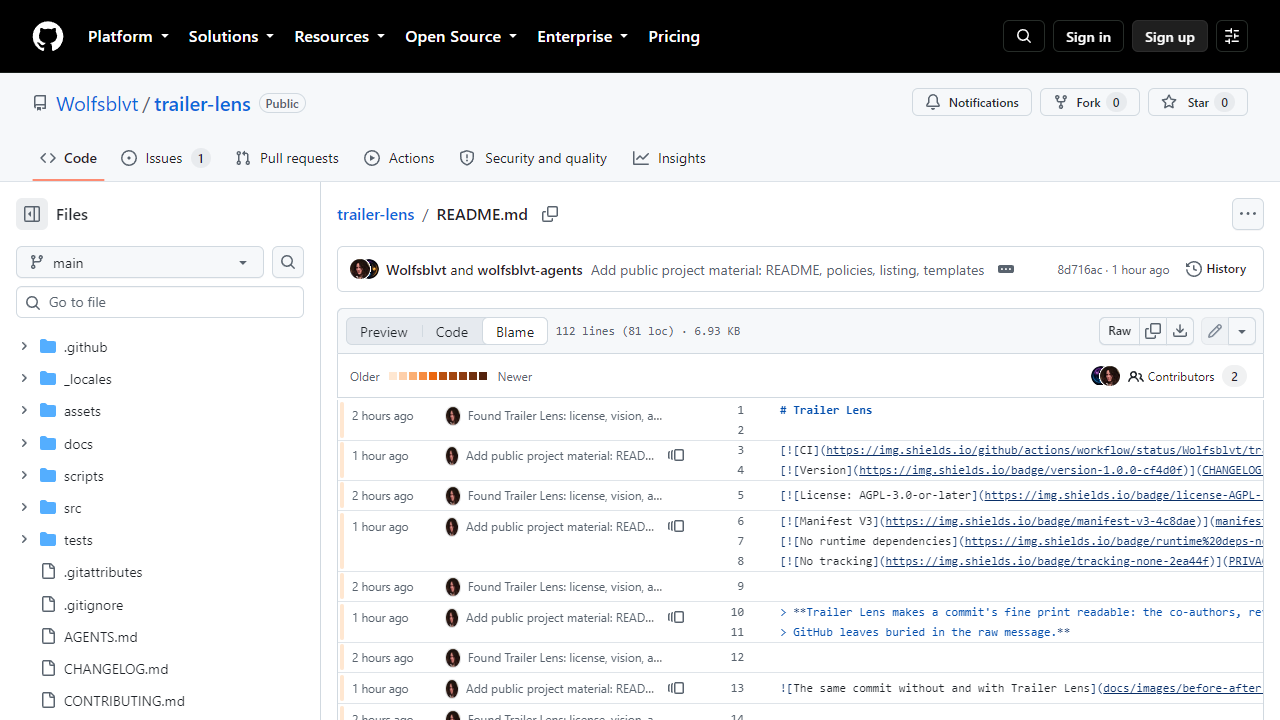
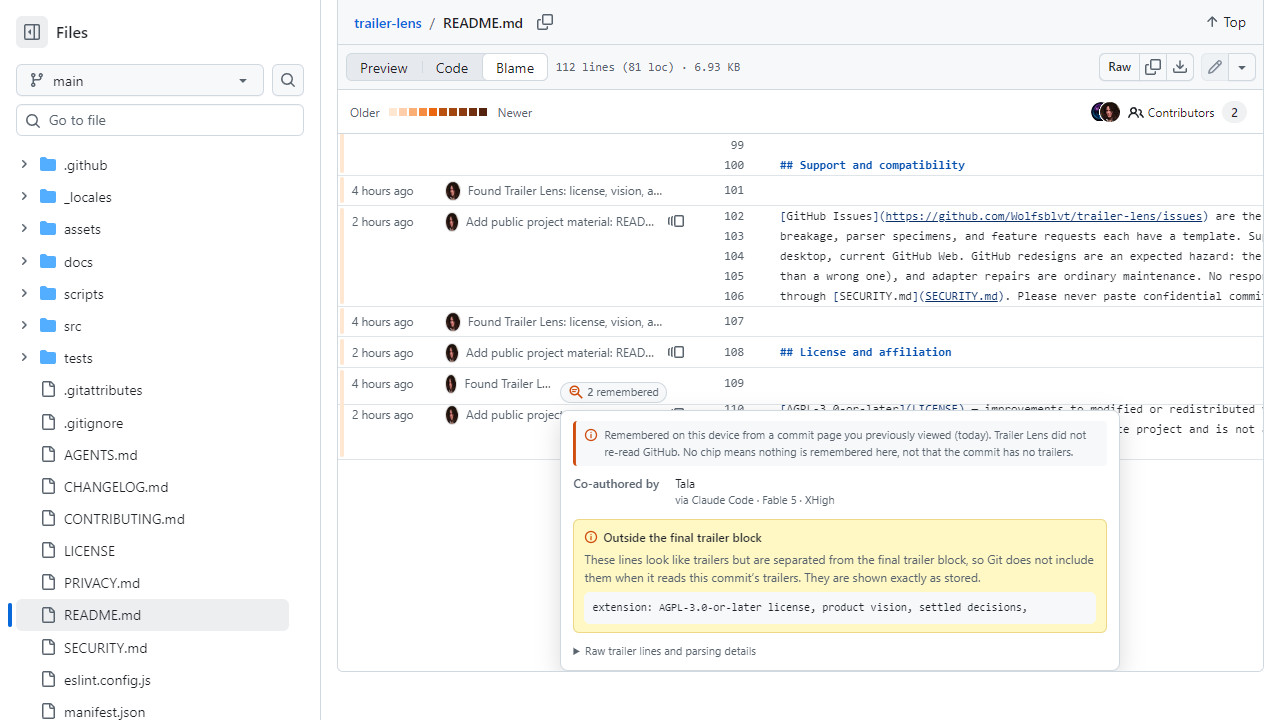
Make the remembered chip visibly honest
The visible-truth repair from review: the collapsed pill now reads
"N remembered" (the qualification lived only in the accessible label,
tooltip, and expanded note -- every place except the pixel a scanning
user sees), and the tooltip and expanded note carry the product wording:
evidence comes from a commit page you previously viewed, and no chip
means nothing is remembered, not that the commit has no trailers.

Proving the wording on the real surface exposed a harder form of the
same defect: GitHub truncates blame messages with overflow hidden and
ellipsis, and a chip appended inside that span is laid out past the clip
edge and never painted. Chips now attach after the outermost clipping
ancestor (bounded walk, at most three hops), the blame fixture
reproduces the truncation, and the journey asserts the chip wins a hit
test at its own center. Verified live: the chip paints on the real
blame view, captured in the refreshed README image.

Co-authored-via: Tala | Claude Code | Fable 5 | XHigh

diff --git a/tests/browser/memory.test.ts b/tests/browser/memory.test.ts
@@ -114,8 +114,21 @@ test('enabled: a visited commit is remembered and chips appear on references', a
     return {
       chipCount: chips.length,
       chipKey: chip.getAttribute('data-trailer-lens-commit'),
-      afterQualifiedLink: chip.previousElementSibling?.getAttribute('href') ?? null,
+      afterQualifiedLink:
+        chip.previousElementSibling?.querySelector('a')?.getAttribute('href') ??
+        chip.previousElementSibling?.getAttribute('href') ??
+        null,
+      outsideClipper: chip.previousElementSibling?.classList.contains('ref-message') ?? false,
+      painted: (() => {
+        const r = chip.querySelector('.tl-chip-summary')?.getBoundingClientRect();
+        if (r === undefined || r.width === 0) return 'zero-size';
+        const at = document.elementFromPoint(r.x + r.width / 2, r.y + r.height / 2);
+        return at !== null && chip.contains(at) ? 'painted' : 'clipped';
+      })(),
       count: chip.querySelector('.tl-chip-count')?.textContent,
+      qualifier: chip.querySelector('.tl-chip-word')?.textContent,
+      ariaLabel: chip.querySelector('.tl-chip-summary')?.getAttribute('aria-label'),
+      tooltip: chip.querySelector('.tl-chip-summary')?.getAttribute('title'),
       labels: [...chip.querySelectorAll('.tl-label')].map((el) => el.textContent),
       note: chip.querySelector('.tl-remembered-note')?.textContent ?? '',
       inCommentBody: chips.some((c) => c.closest('.comment-body') !== null),
@@ -126,9 +139,20 @@ test('enabled: a visited commit is remembered and chips appear on references', a
   assert.equal(state.chipCount, 1);
   assert.equal(state.chipKey, `tlm:github.com/fixture-org/fixture-repo@${RICH_SHA}`);
   assert.equal(state.afterQualifiedLink, `/fixture-org/fixture-repo/commit/${RICH_SHA}`);
+  // The blame message cell truncates with ellipsis exactly like GitHub's; a
+  // chip left inside it would exist in the DOM yet never paint. It must sit
+  // outside the clipper and win a hit test at its own center.
+  assert.equal(state.outsideClipper, true);
+  assert.equal(state.painted, 'painted');
   assert.equal(state.count, '7');
+  // The collapsed pill must say what it is — memory, not live truth — and the
+  // note must defuse the inference that a chip-less commit has no trailers.
+  assert.equal(state.qualifier, 'remembered');
+  assert.equal(state.ariaLabel, '7 remembered trailers for this commit');
+  assert.equal(state.tooltip, 'Remembered on this device from a commit page you previously viewed');
   assert.deepEqual(state.labels, ['Co-authored by', 'Co-authored by', 'Reviewed by', 'Change-Id', 'Build-Context']);
-  assert.ok(state.note.includes('Remembered on this device'));
+  assert.ok(state.note.includes('Remembered on this device from a commit page you previously viewed'));
+  assert.ok(state.note.includes('not that the commit has no trailers'));
   assert.equal(state.inCommentBody, false);
 
   await blame.screenshot({ path: join(RESULTS_DIR, 'memory-chip-blame.png'), fullPage: true });

diff --git a/tests/browser/fixture-page.ts b/tests/browser/fixture-page.ts
@@ -203,9 +203,19 @@ export function referenceFixtureUrl(fixture: ReferenceFixture): string {
 
 export function referenceFixtureHtml(fixture: ReferenceFixture): string {
   const mode = fixture.colorMode ?? 'light';
+  // Blame reproduces GitHub's truncating message cell (overflow hidden +
+  // ellipsis): anything appended inside it after a long link never paints.
+  // Other reference surfaces keep the plain shape, so both chip attachment
+  // paths (hop out of the clipper / directly after the link) stay exercised.
+  const truncating = fixture.routePath.startsWith('blame/');
   const rows = fixture.fullOids
-    .map(
-      (oid, i) => `<div class="ref-row" data-row="${i}">
+    .map((oid, i) =>
+      truncating
+        ? `<div class="ref-row" data-row="${i}">
+        <span class="ref-message"><a href="/${fixture.owner}/${fixture.repo}/commit/${oid}" class="ref-commit-link">Long real-shaped commit subject ${i + 1} that overflows its blame message cell (${oid.slice(0, 7)})</a></span>
+        <span class="ref-title">4 hours ago</span>
+      </div>`
+        : `<div class="ref-row" data-row="${i}">
         <a href="/${fixture.owner}/${fixture.repo}/commit/${oid}" class="ref-commit-link">${oid.slice(0, 7)}</a>
         <span class="ref-title">Referenced commit ${i + 1}</span>
       </div>`,
@@ -249,6 +259,8 @@ export function referenceFixtureHtml(fixture: ReferenceFixture): string {
          font-family: -apple-system, "Segoe UI", Helvetica, Arial, sans-serif; font-size: 14px; }
   .ref-row { display: flex; align-items: center; gap: 10px; padding: 6px 10px;
              border-bottom: 1px solid var(--borderColor-default); }
+  .ref-message { display: inline-block; max-width: 300px; overflow: hidden;
+                 text-overflow: ellipsis; white-space: nowrap; }
   a { color: #0969da; text-decoration: none; font-family: var(--fontStack-monospace); font-size: 12px; }
   .comment-body { margin-top: 20px; padding: 12px; border: 1px solid var(--borderColor-default); border-radius: 6px; }
 </style>

diff --git a/src/github/adapters/reference-links.ts b/src/github/adapters/reference-links.ts
@@ -32,8 +32,34 @@ export function isReferenceRoute(pathname: string): boolean {
 export interface ReferenceUnit {
   readonly identity: CommitIdentity;
   readonly storageKey: string;
-  /** The commit link the chip attaches after. */
+  /** The commit link whose href carries the identity. */
   readonly anchor: HTMLAnchorElement;
+  /** The element the chip renders after — outside clipping ancestors. */
+  readonly attachAfter: HTMLElement;
+}
+
+/**
+ * GitHub truncates long commit messages with `overflow: hidden` +
+ * `text-overflow: ellipsis` (blame's commitMessage span, timeline titles).
+ * A chip appended inside such a container is laid out past the clip edge and
+ * never painted, so the attachment point hops outside clipping ancestors.
+ * The walk is bounded: hopping only ever moves the chip next to a wrapper of
+ * the same link, and a surface with no clipping keeps the link itself.
+ */
+function attachmentPoint(anchor: HTMLAnchorElement): HTMLElement {
+  const view = anchor.ownerDocument.defaultView;
+  if (view === null) return anchor;
+  let point: HTMLElement = anchor;
+  for (let hops = 0; hops < 3; hops++) {
+    const parent = point.parentElement;
+    if (parent === null) break;
+    const style = view.getComputedStyle(parent);
+    const clips =
+      style.textOverflow === 'ellipsis' || style.overflowX === 'hidden' || style.overflowX === 'clip';
+    if (!clips) break;
+    point = parent;
+  }
+  return point;
 }
 
 /** Containers whose links are user content, never evidence anchors. */
@@ -58,7 +84,7 @@ export function discoverReferenceUnits(doc: Document, host: string): readonly Re
     if (identity === null) continue;
     const storageKey = memoryKey(identity);
     if (storageKey === null) continue;
-    units.push({ identity, storageKey, anchor });
+    units.push({ identity, storageKey, anchor, attachAfter: attachmentPoint(anchor) });
   }
   return units;
 }

diff --git a/src/strings.ts b/src/strings.ts
@@ -19,9 +19,11 @@ export const STRINGS = {
   remembered: {
     chipLabel: (count: number) =>
       count === 1 ? '1 remembered trailer for this commit' : `${count} remembered trailers for this commit`,
-    chipTooltip: 'Trailer evidence remembered on this device by Trailer Lens',
+    // Visible in the collapsed chip, so a scanning user reads memory, not truth.
+    chipQualifier: 'remembered',
+    chipTooltip: 'Remembered on this device from a commit page you previously viewed',
     note: (age: string) =>
-      `Remembered on this device from the commit page (${age}). Shown from local memory - not re-read from GitHub.`,
+      `Remembered on this device from a commit page you previously viewed (${age}). Trailer Lens did not re-read GitHub. No chip means nothing is remembered here, not that the commit has no trailers.`,
   },
   raw: {
     summary: 'Raw trailer lines and parsing details',

diff --git a/src/github/reconcile.ts b/src/github/reconcile.ts
@@ -170,7 +170,7 @@ export function createEngine(doc: Document): Engine {
           unit === undefined ||
           entry === undefined ||
           kept.has(unit.storageKey) ||
-          chip.previousElementSibling !== unit.anchor ||
+          chip.previousElementSibling !== unit.attachAfter ||
           !unit.anchor.isConnected
         ) {
           chip.remove();
@@ -189,7 +189,7 @@ export function createEngine(doc: Document): Engine {
         const model = buildPanelViewModel(entry.evidence, currentSettings, entry.hasRenderedLinks);
         if (model === null) continue;
         const chip = renderRememberedChip(doc, model, unit.storageKey, signature, entry.storedAt);
-        unit.anchor.after(chip);
+        unit.attachAfter.after(chip);
       }
     });
   }

diff --git a/src/presentation/render.ts b/src/presentation/render.ts
@@ -64,6 +64,9 @@ export function renderRememberedChip(
   const count = el(doc, 'span', 'tl-chip-count');
   count.textContent = String(model.entryCount);
   summary.append(count);
+  const qualifier = el(doc, 'span', 'tl-chip-word');
+  qualifier.textContent = STRINGS.remembered.chipQualifier;
+  summary.append(qualifier);
   summary.setAttribute('aria-label', STRINGS.remembered.chipLabel(model.entryCount));
   summary.title = STRINGS.remembered.chipTooltip;
   root.append(summary);

diff --git a/src/presentation/trailer-lens.css b/src/presentation/trailer-lens.css
@@ -300,6 +300,10 @@
   font-size: 11px;
 }
 
+.tl-chip-word {
+  font-size: 11px;
+}
+
 .tl-chip-body {
   position: absolute;
   z-index: 100;
